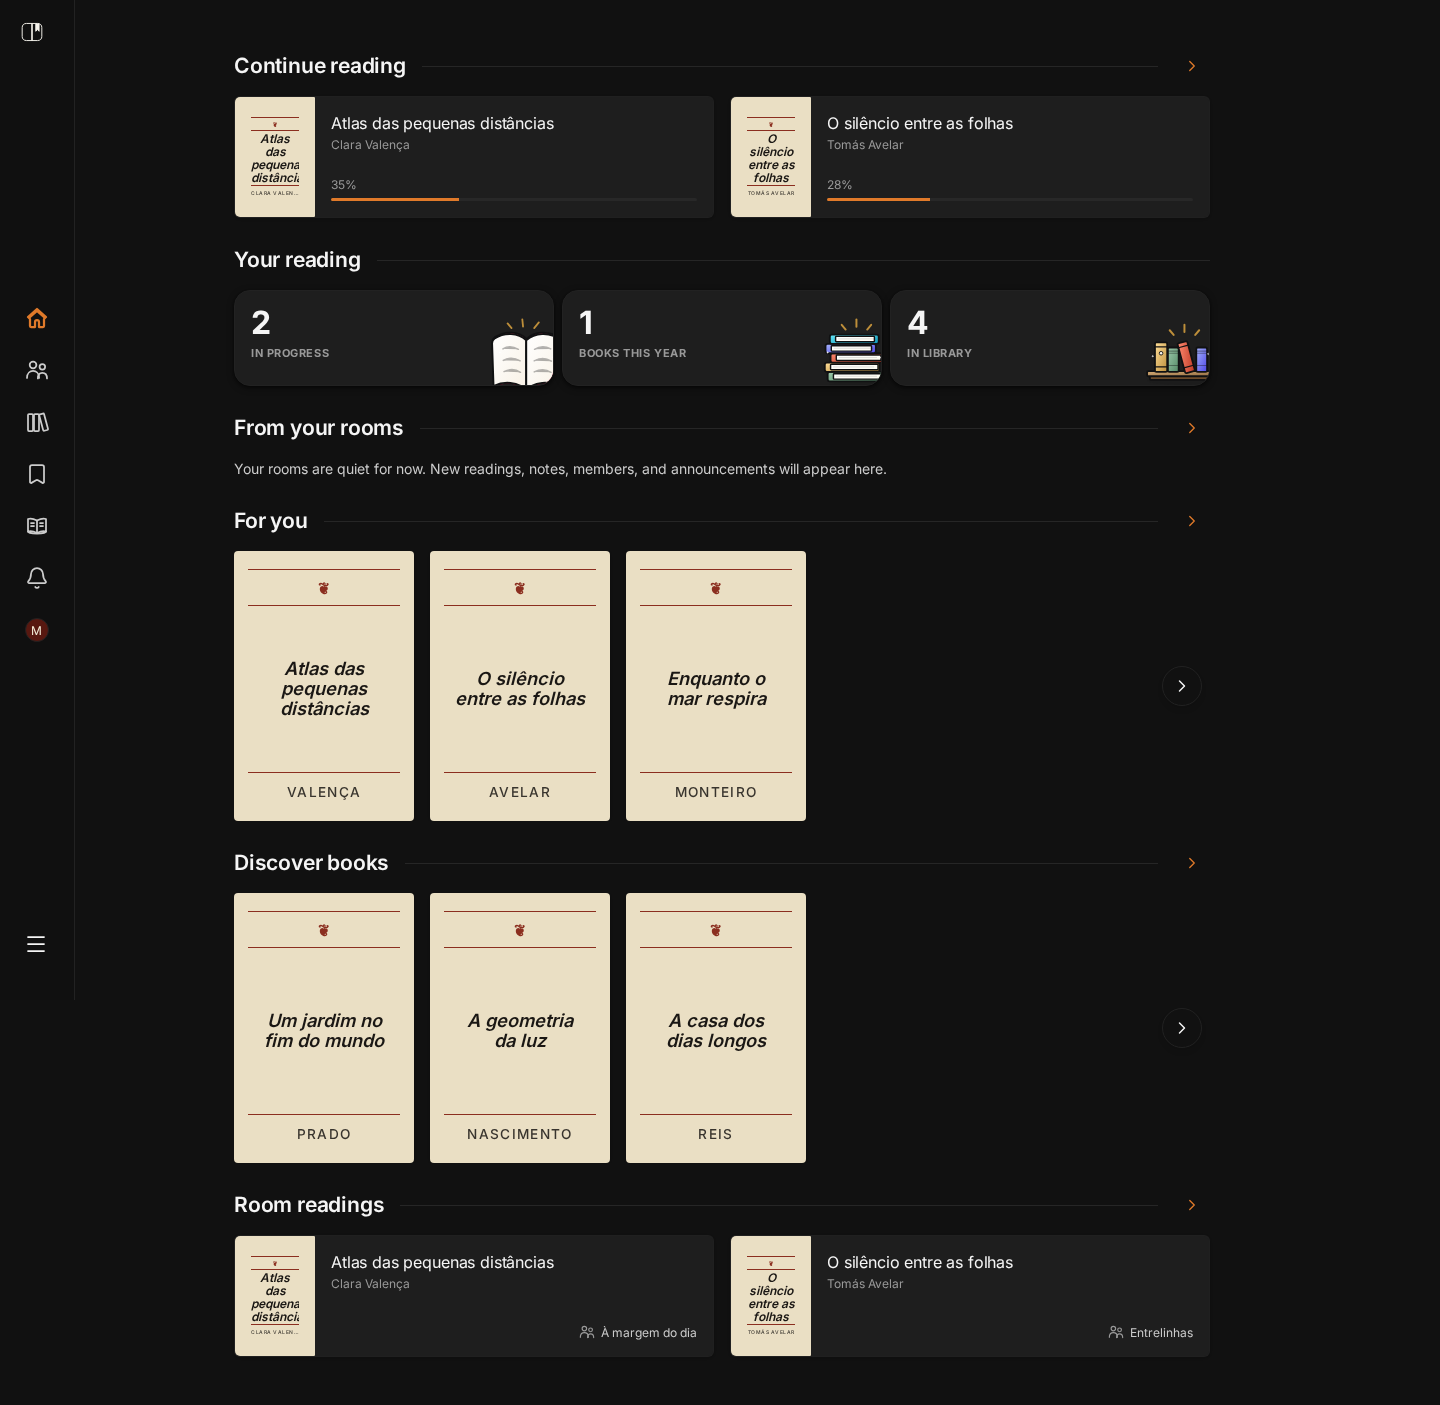
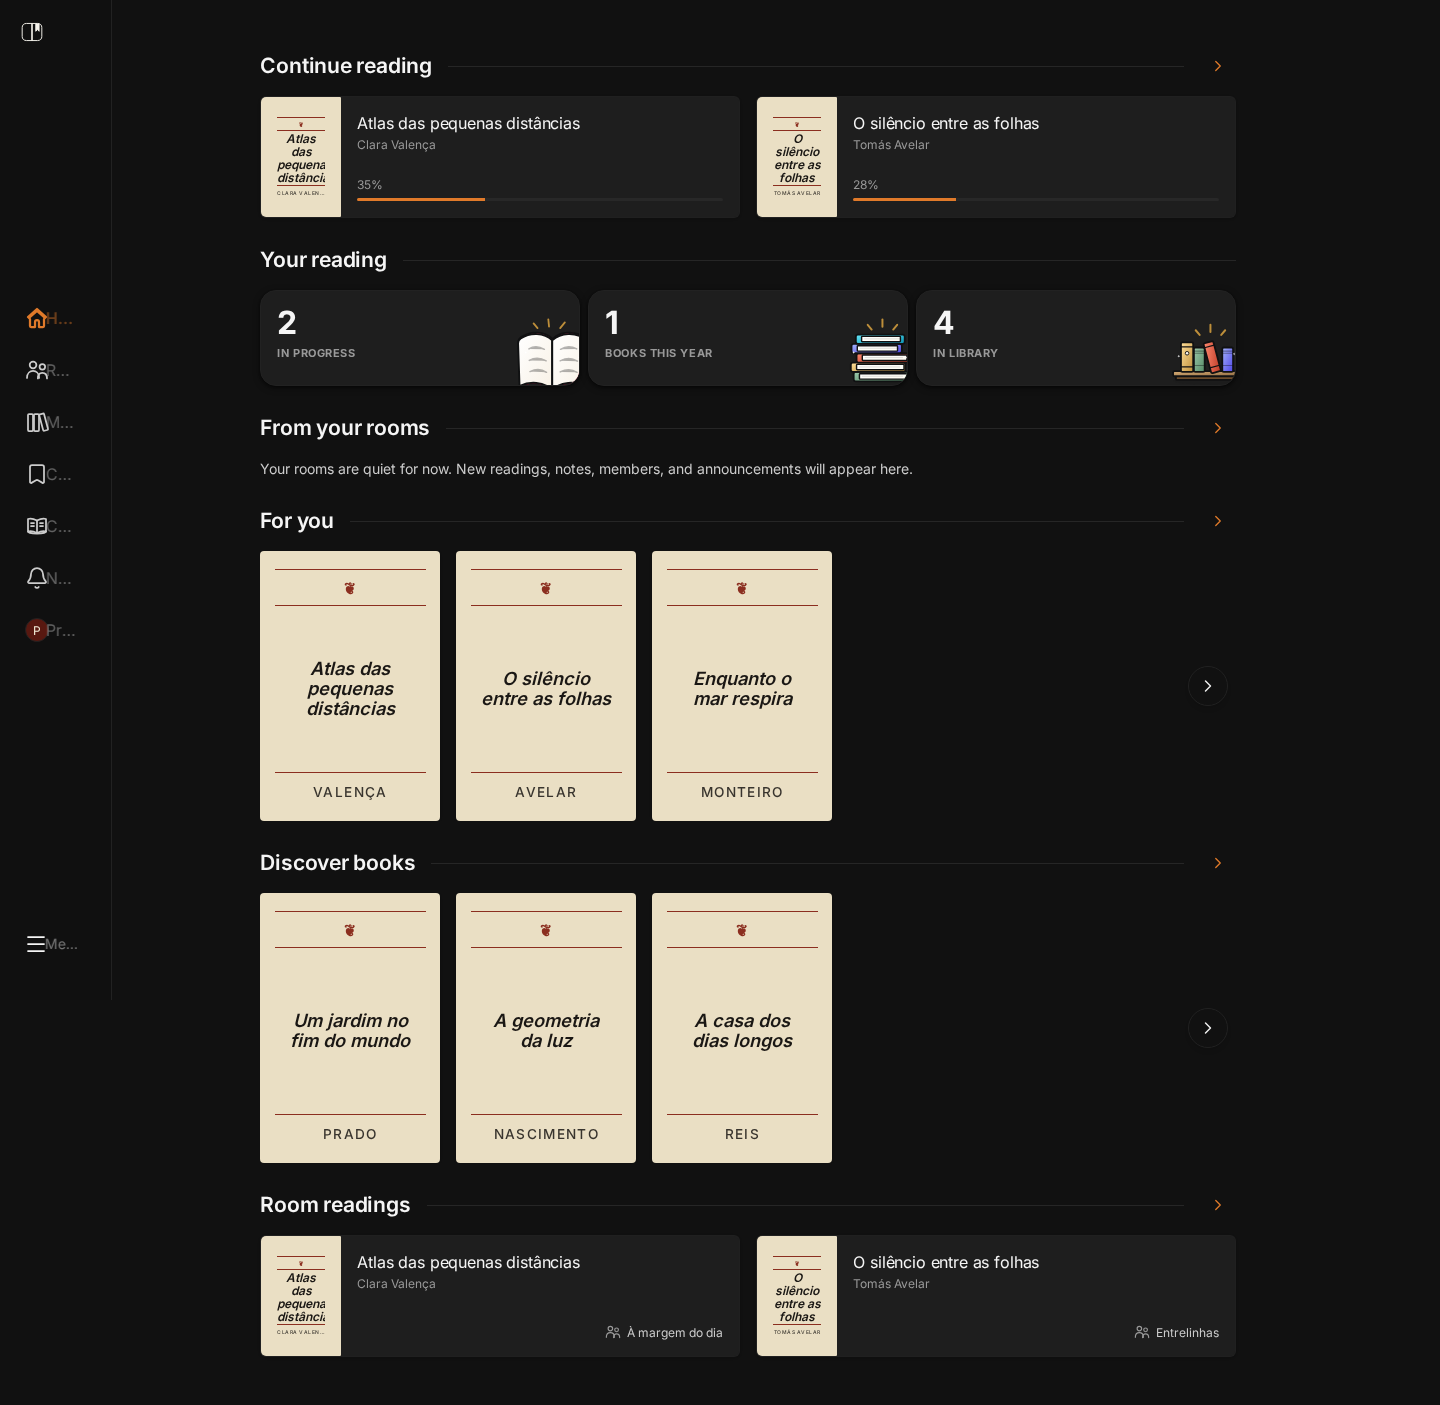
chore(demo): use Peter Parker as the demo reader

diff --git a/apps/showcase/src/demo/contracts.test.ts b/apps/showcase/src/demo/contracts.test.ts
@@ -9,10 +9,10 @@ const client = createTowelBooksClient({
 describe('original frontend demo transport', () => {
   it('serves original SDK read contracts used by the preserved screens', async () => {
     const network = vi.spyOn(globalThis, 'fetch');
-    expect((await client.users.me.get()).username).toBe('marina_demo');
+    expect((await client.users.me.get()).username).toBe('peter_parker');
     expect((await client.collections.list()).items).toHaveLength(3);
     expect((await client.collections.get(uuid(500))).owner.username).toBe(
-      'marina_demo',
+      'peter_parker',
     );
     expect(
       (await client.collections.listPublicItems(uuid(500))).items,
@@ -44,7 +44,7 @@ describe('original frontend demo transport', () => {
       uuid(700),
     );
     expect(
-      (await client.users.listProfileBooksRead('marina_demo')).items,
+      (await client.users.listProfileBooksRead('peter_parker')).items,
     ).toHaveLength(1);
     expect((await client.rooms.discover()).items).toHaveLength(3);
     expect((await client.rooms.getOverview(uuid(600))).viewer.role).toBe(
@@ -62,7 +62,7 @@ describe('original frontend demo transport', () => {
     expect((await client.polls.listPolls(uuid(600))).items).toEqual([]);
     expect((await client.users.me.getHome()).forYou).toHaveLength(3);
     expect((await client.activityEvents.listForViewer()).items).toEqual([]);
-    expect((await client.users.getProfile('marina_demo')).viewer?.isSelf).toBe(
+    expect((await client.users.getProfile('peter_parker')).viewer?.isSelf).toBe(
       true,
     );
     expect((await client.notifications.list()).items).toEqual([]);
@@ -159,7 +159,7 @@ describe('original frontend demo transport', () => {
     await expect(
       client.users.me.delete({ password: 'fictional-demo-value' }),
     ).rejects.toBeInstanceOf(ApiRequestError);
-    expect((await client.users.me.get()).username).toBe('marina_demo');
+    expect((await client.users.me.get()).username).toBe('peter_parker');
     await expect(
       demoFetch('https://example.invalid/upload', { method: 'PUT' }),
     ).rejects.toThrow('External requests');

diff --git a/apps/showcase/src/demo/fixtures.ts b/apps/showcase/src/demo/fixtures.ts
@@ -13,16 +13,16 @@ export const date = '2026-10-20T12:00:00.000Z';
 export const uuid = (value: number) =>
   `00000000-0000-4000-8000-${String(value).padStart(12, '0')}`;
 export const avatar = buildAvatar({
-  displayName: 'Marina Costa',
-  username: 'marina_demo',
+  displayName: 'Peter Parker',
+  username: 'peter_parker',
   avatarBackground: '#581810',
   avatarImageUrl: null,
 });
 export const demoUser = meResponseSchema.parse({
   id: uuid(1),
-  email: 'marina@example.invalid',
-  displayName: 'Marina Costa',
-  username: 'marina_demo',
+  email: 'peter.parker@example.invalid',
+  displayName: 'Peter Parker',
+  username: 'peter_parker',
   bio: 'Leituras lentas, margens anotadas e conversas depois do último capítulo.',
   locale: null,
   localeMode: 'auto',

diff --git a/e2e/original-frontend.spec.ts b/e2e/original-frontend.spec.ts
@@ -32,7 +32,7 @@ test('original pages render with no service traffic or startup errors', async ({
     '/demo/rooms',
     `/demo/rooms/${uid(600)}`,
     `/demo/rooms/${uid(600)}/readings/${uid(700)}`,
-    '/demo/marina_demo',
+    '/demo/peter_parker',
   ];
   for (const route of routes) {
     await page.goto(route);
